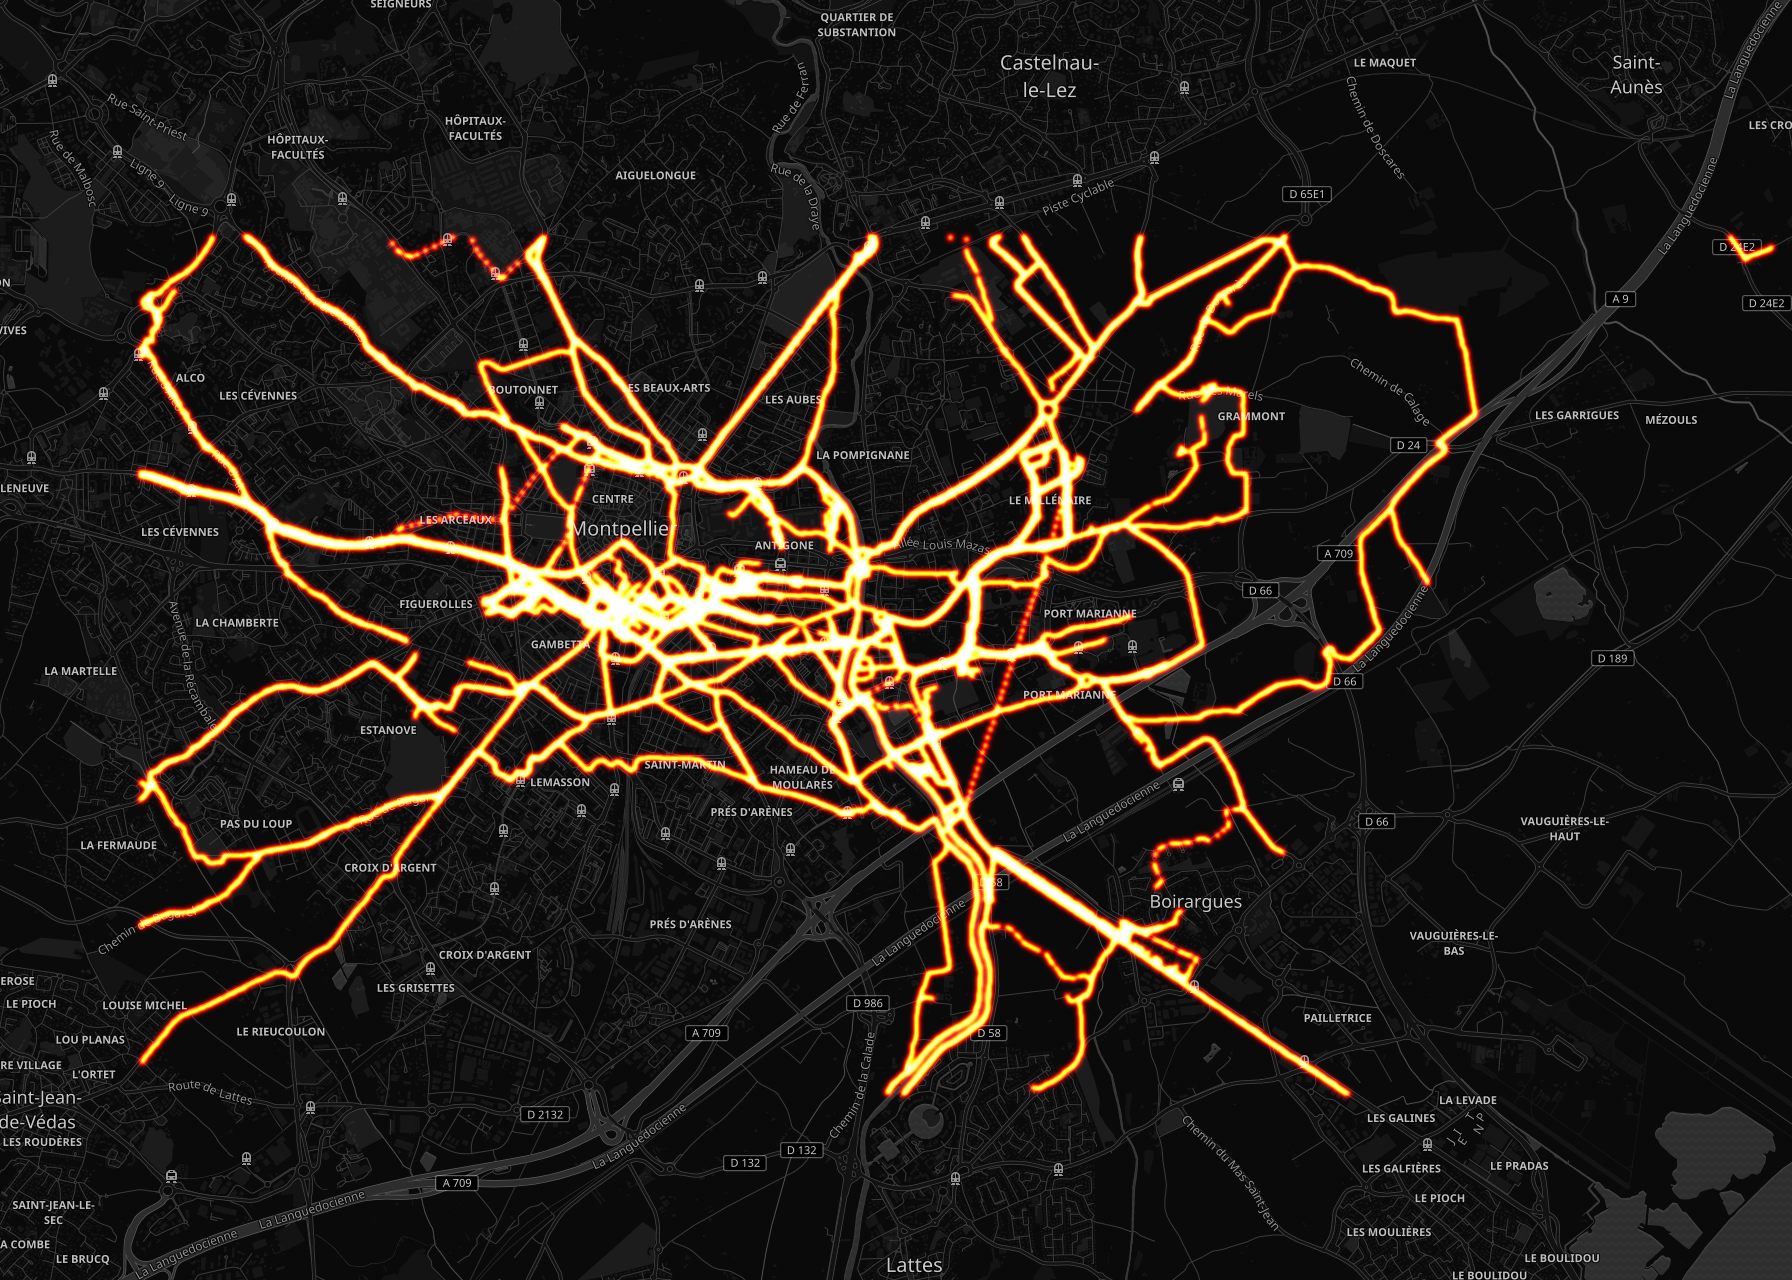
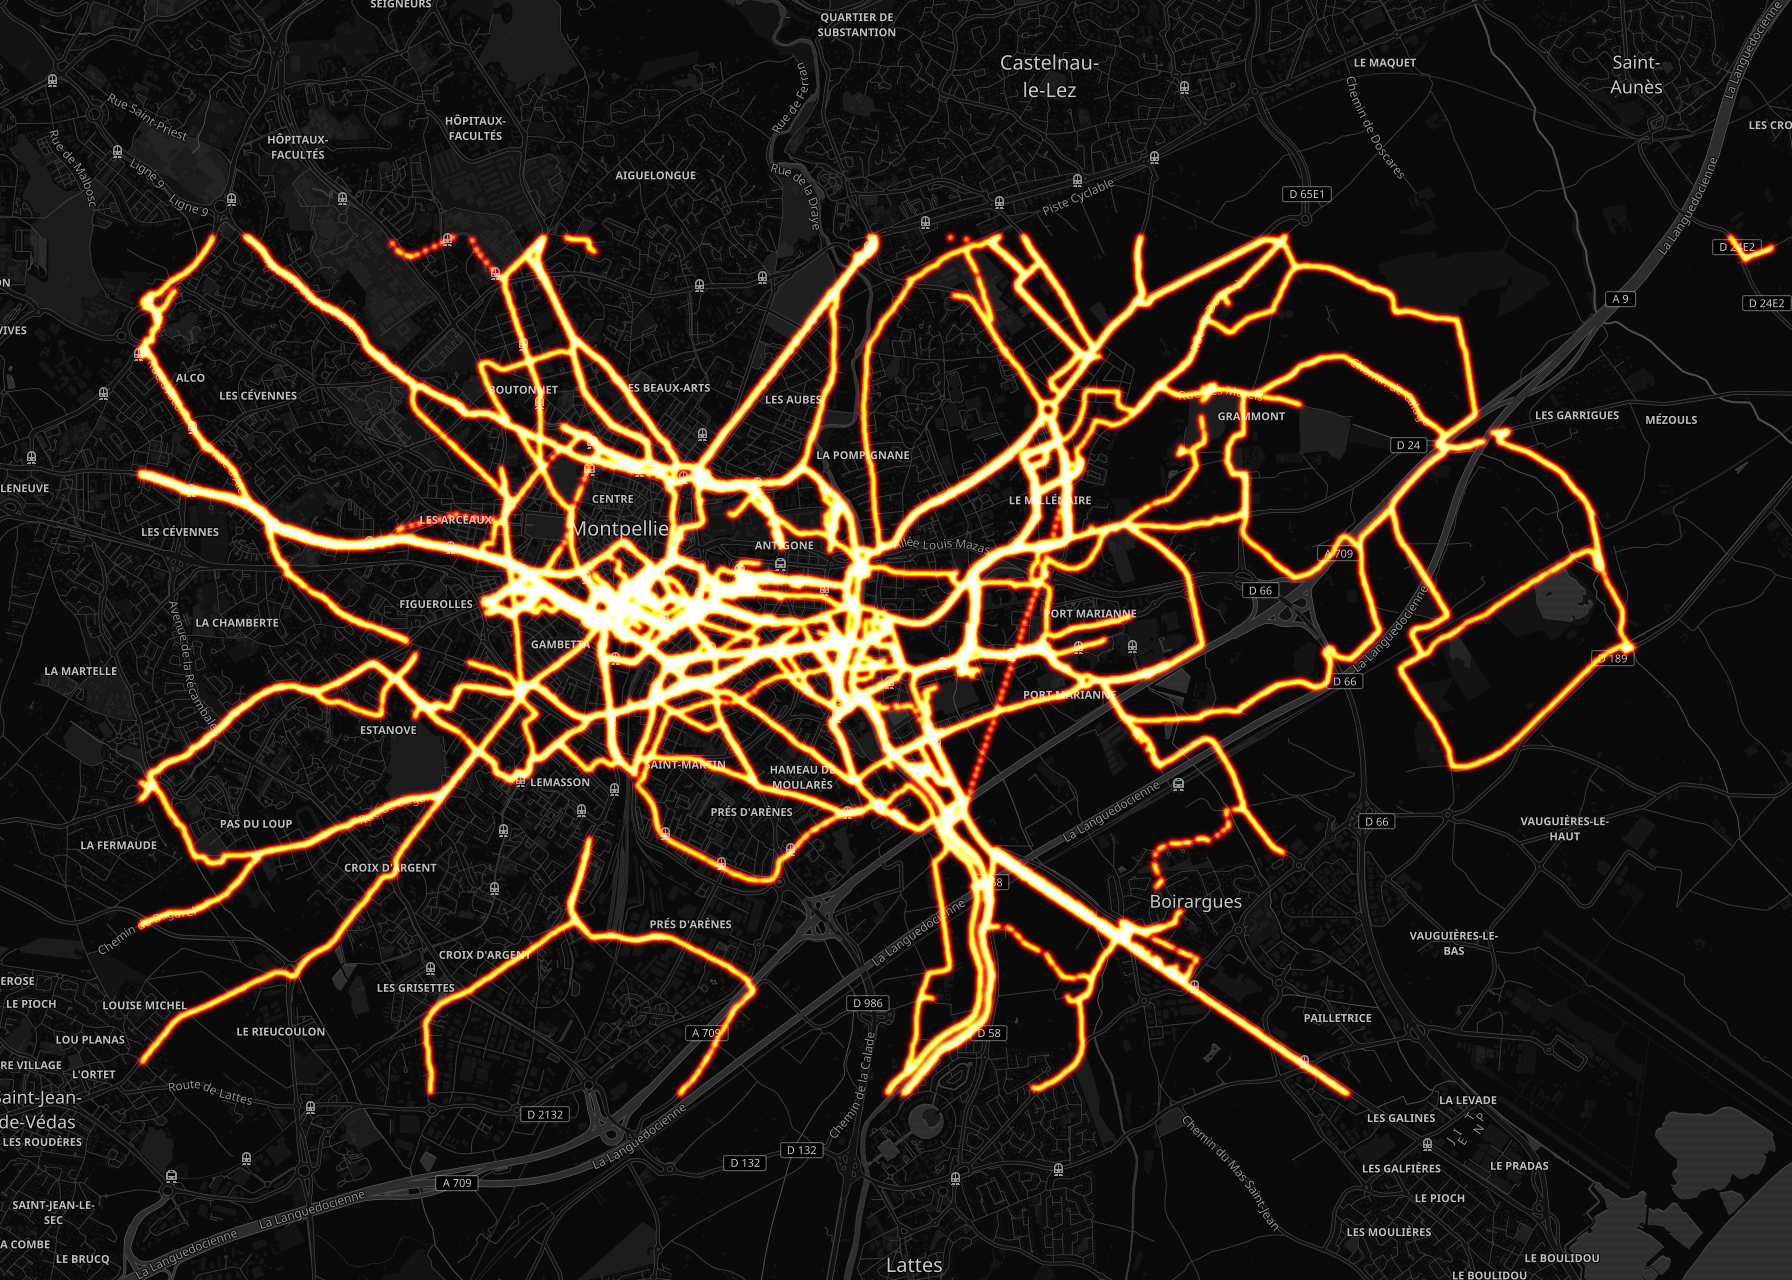
Ajout des traces d'Eric Erack

diff --git a/datas/traces/README.md b/datas/traces/README.md
@@ -31,7 +31,8 @@ Les graphes ci-dessous sont générés grâce aux dons des traces par les cyclis
 # python strava-to-file/convert.py -d ~/private/projects/jesuisundesdeux/datas/traces -u $(basename $(pwd))
 # cd jesuisundesdeux/datas/traces/
 # ./tool_reduce_gpx_size.sh
-# python jesuisundesdeux_summarize.py -d ~/private/projects/jesuisundesdeux/datas/traces/ -u $(basename $(pwd))
+# cd username_strava_folder
+# python strava-to-file/jesuisundesdeux_summarize.py -d ~/private/projects/jesuisundesdeux/datas/traces/ -u $(basename $(pwd))
 ```
 
 ### Generate heatmap with strava-local-heatmap
@@ -55,7 +56,7 @@ python strava_local_heatmap.py --gpx-dir ~/private/projects/jesuisundesdeux/data
 
 python strava_local_heatmap.py --gpx-dir ~/private/projects/jesuisundesdeux/datas/traces --gpx-filter "**/*_reduced_trace.gpx" --max-tiles $MAXNBTITLES --gpx-bound $BOUNDS --output ~/private/projects/jesuisundesdeux/datas/traces/heatmap_montpellier_all.png --csv-output --no-cdist
 
-TRACEUSERS=(aurelien.tyson bruno.adele charles.dassonville brice.favre)
+TRACEUSERS=(aurelien.tyson bruno.adele charles.dassonville brice.favre eric.erack vincent-xavier.jumel)
 for TRACEUSER in $TRACEUSERS; do
     # France
     BOUNDS=(49.382373 -5.328369 42.867912 11.90918)

diff --git a/datas/traces/eric.erack/README.md b/datas/traces/eric.erack/README.md
@@ -1,0 +1,38 @@
+# Eric Erack
+
+## Résumé
+
+Distance totale parcourue pour toutes les activitées **1735 Km**
+
+|   year |   Hike |   Ride |   Walk |
+|-------:|-------:|-------:|-------:|
+|   2017 |    9.7 |  762.4 |    0   |
+|   2018 |    0   |  959.3 |    4.3 |
+
+<img src="summary_user.png" width="50%" >
+
+## Montpellier
+
+#### Trajets les plus fréquents
+
+<img src="heatmap_user_montpellier.png" width="50%" >
+
+#### Zones de croisements
+
+<img src="heatmap_user_montpellier_carrefour.png" width="50%" >
+
+
+#### Ensembles des trajets
+
+<img src="heatmap_user_montpellier_all.png" width="50%" >
+
+
+## France
+
+#### Trajets les plus fréquents
+
+<img src="heatmap_user_france.png" width="50%" >
+
+#### Ensembles des trajets
+
+<img src="heatmap_user_france_all.png" width="50%" >

diff --git a/datas/traces/eric.erack/README_template.md b/datas/traces/eric.erack/README_template.md
@@ -1,0 +1,35 @@
+# Eric Erack
+
+## Résumé
+
+Distance totale parcourue pour toutes les activitées **{{TOTALDISTANCE}} Km**
+
+{{SUMMARY}}
+
+<img src="summary_user.png" width="50%" >
+
+## Montpellier
+
+#### Trajets les plus fréquents
+
+<img src="heatmap_user_montpellier.png" width="50%" >
+
+#### Zones de croisements
+
+<img src="heatmap_user_montpellier_carrefour.png" width="50%" >
+
+
+#### Ensembles des trajets
+
+<img src="heatmap_user_montpellier_all.png" width="50%" >
+
+
+## France
+
+#### Trajets les plus fréquents
+
+<img src="heatmap_user_france.png" width="50%" >
+
+#### Ensembles des trajets
+
+<img src="heatmap_user_france_all.png" width="50%" >
